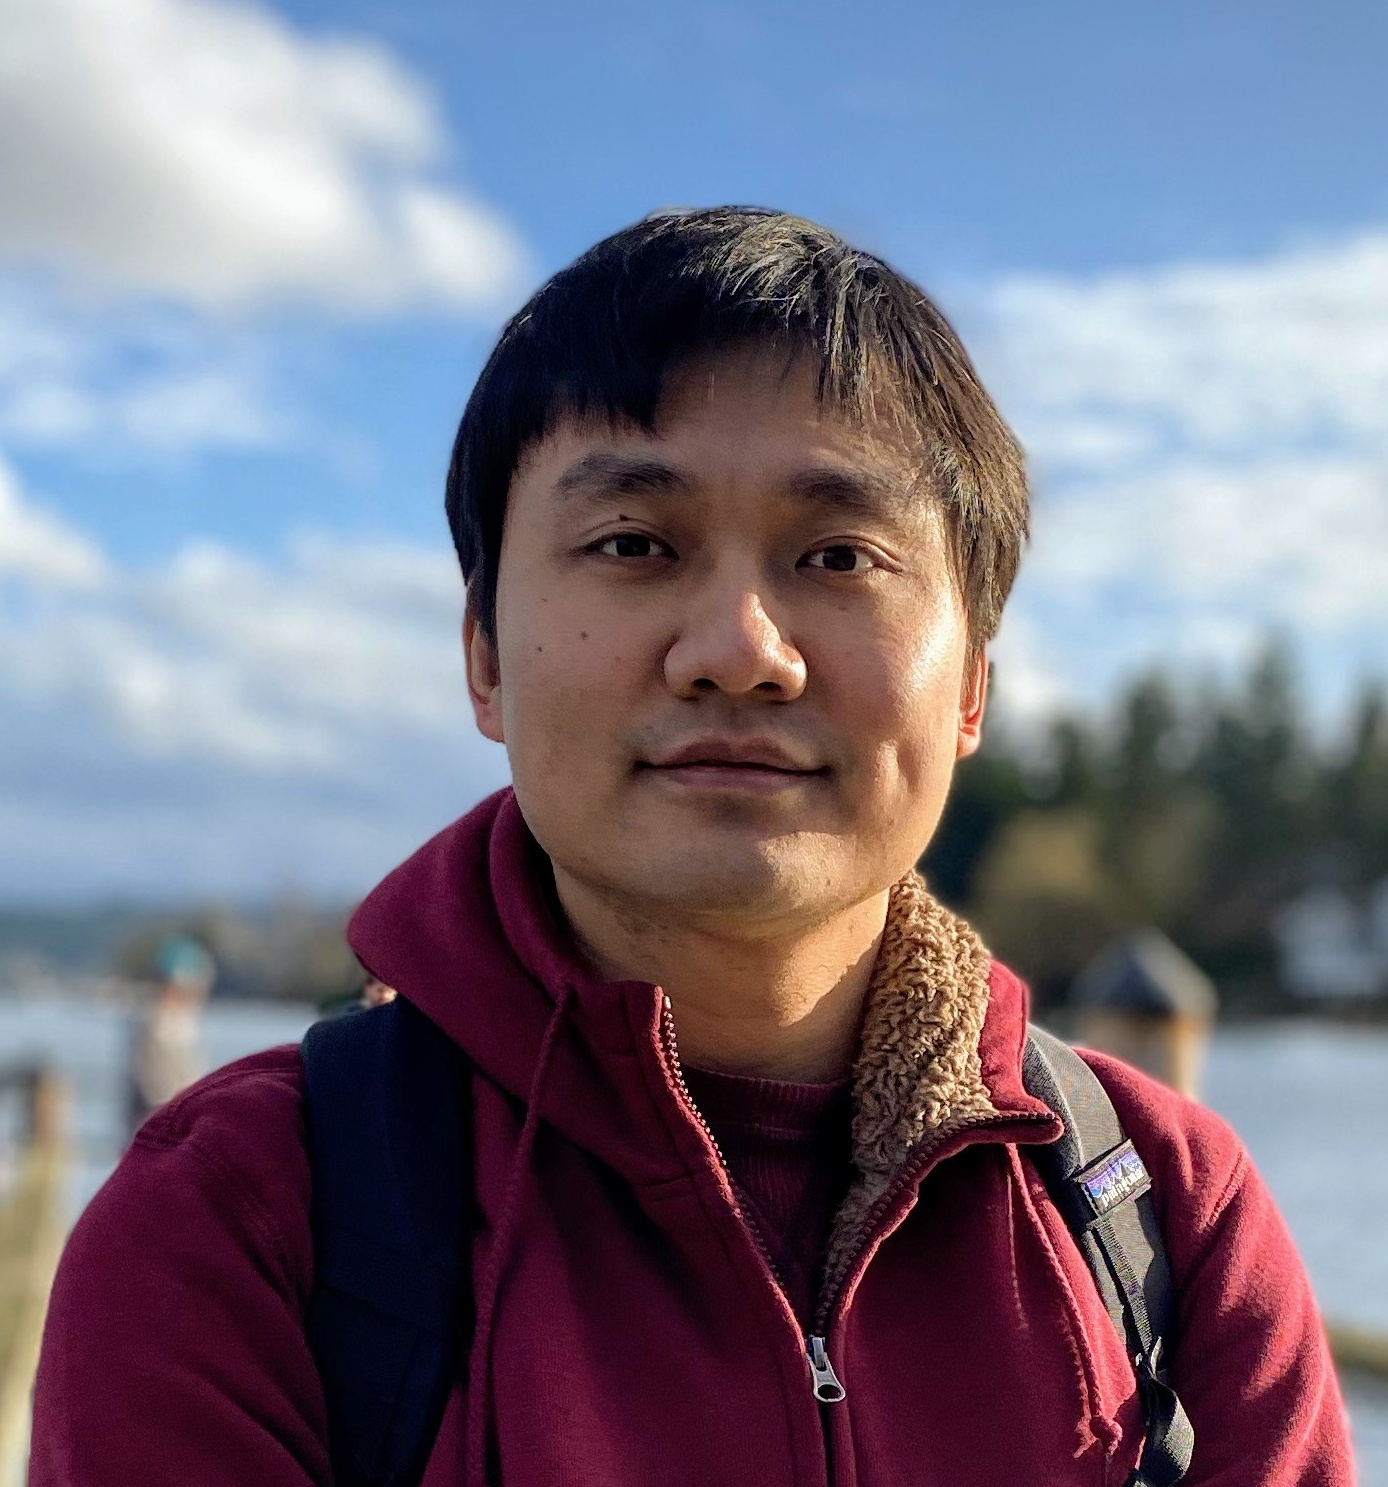
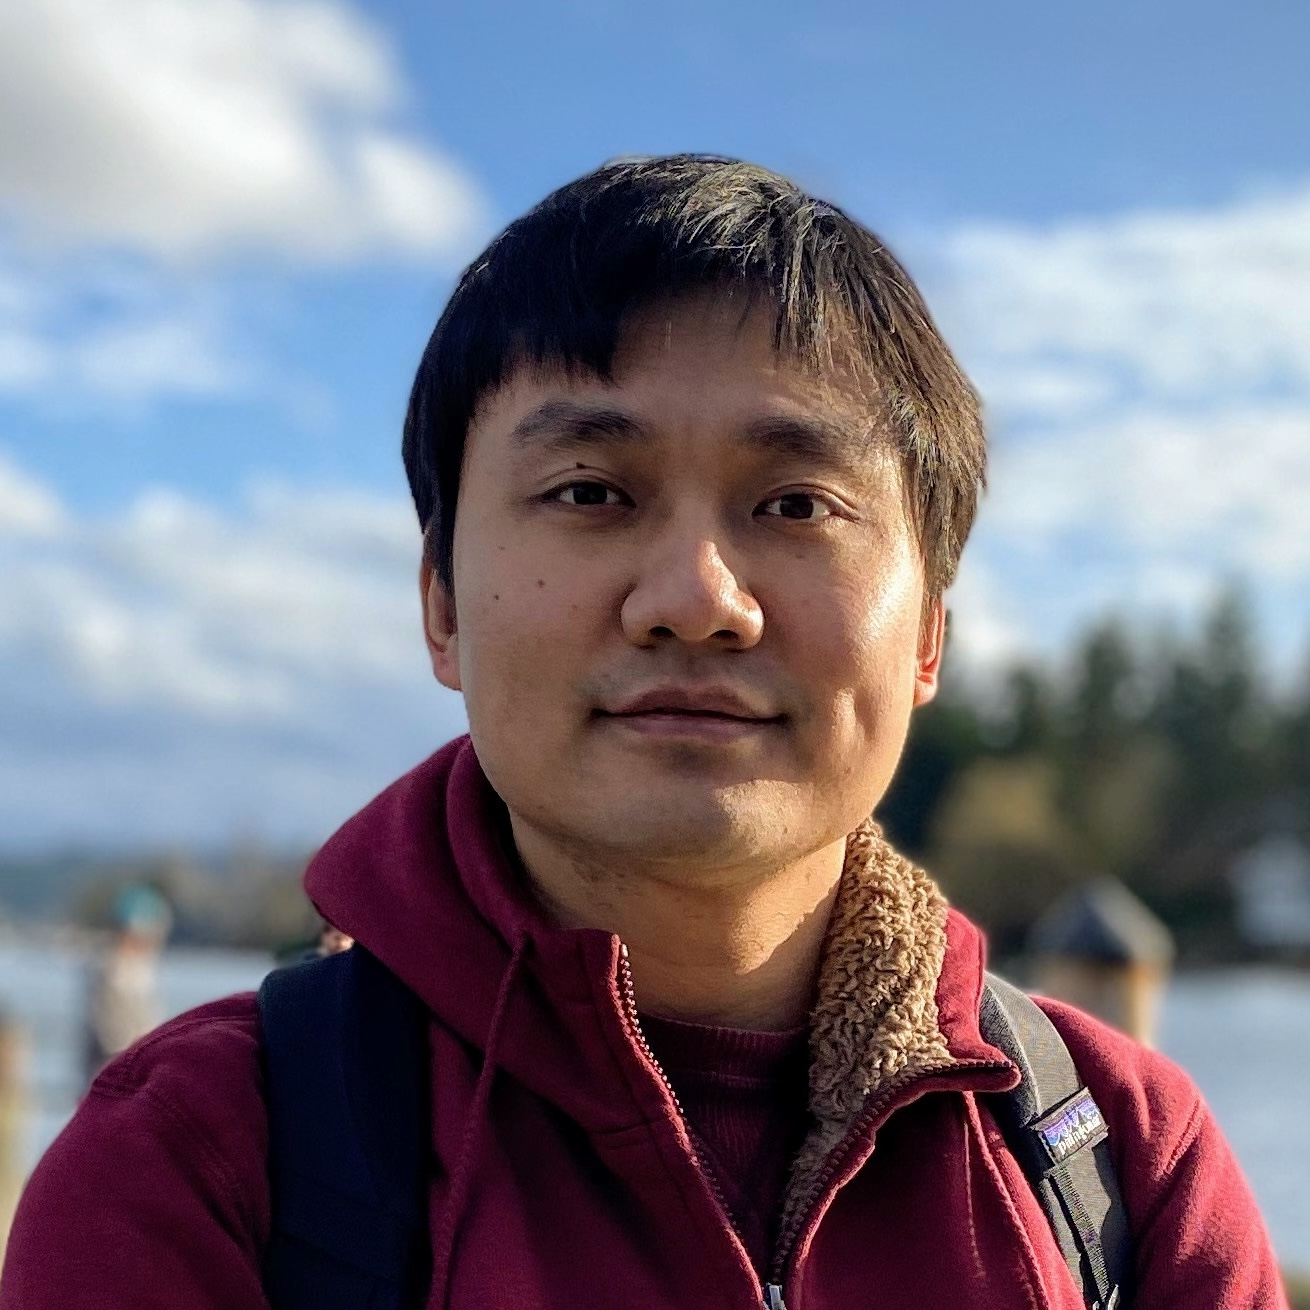
resize pic

diff --git a/_site/index.html b/_site/index.html
@@ -259,7 +259,7 @@
 
 <div class="row">
   <div class="col-md-12">
-    <a href="https://scholar.google.com/citations?user=Y9YnFoUAAAAJ&amp;hl=en/"><img class="people-pic" style="float:left;margin-right:50px;" src="/static/img/people/Reza_Shirvany.jfif" /></a>
+    <a href="https://scholar.google.com/citations?user=Y9YnFoUAAAAJ&amp;hl=en/"><img class="people-pic" style="float:left;margin-right:50px;" src="/static/img/people/reza.jpg" /></a>
     <p>
       <b><a href="https://scholar.google.com/citations?user=Y9YnFoUAAAAJ&amp;hl=en/">Reza Shirvany</a></b> Director of Applied Science at Zalando, leading a multi-disciplinary 
       team of applied scientists that develop customer facing AI driven

diff --git a/_pages/home.md b/_pages/home.md
@@ -200,7 +200,7 @@ description: "Website for the Workshop on 3D Vision and Modeling Challenges in e
 
 <div class="row">
   <div class="col-md-12">
-    <a href="https://scholar.google.com/citations?user=Y9YnFoUAAAAJ&hl=en/"><img class="people-pic" style="float:left;margin-right:50px;" src="{{ "/static/img/people/Reza_Shirvany.jfif" | prepend:site.baseurl }}"></a>
+    <a href="https://scholar.google.com/citations?user=Y9YnFoUAAAAJ&hl=en/"><img class="people-pic" style="float:left;margin-right:50px;" src="{{ "/static/img/people/reza.jpg" | prepend:site.baseurl }}"></a>
     <p>
       <b><a href="https://scholar.google.com/citations?user=Y9YnFoUAAAAJ&hl=en/">Reza Shirvany</a></b> Director of Applied Science at Zalando, leading a multi-disciplinary 
       team of applied scientists that develop customer facing AI driven
